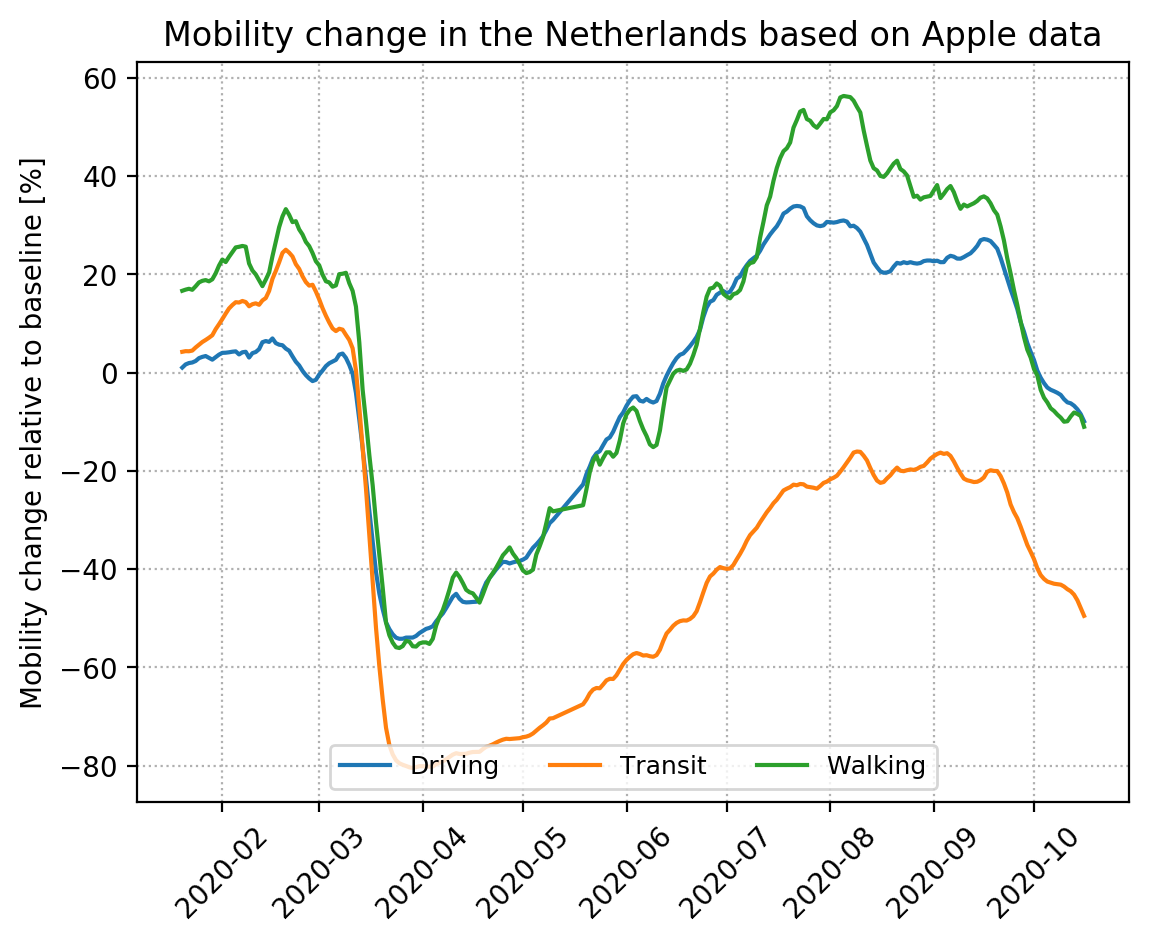
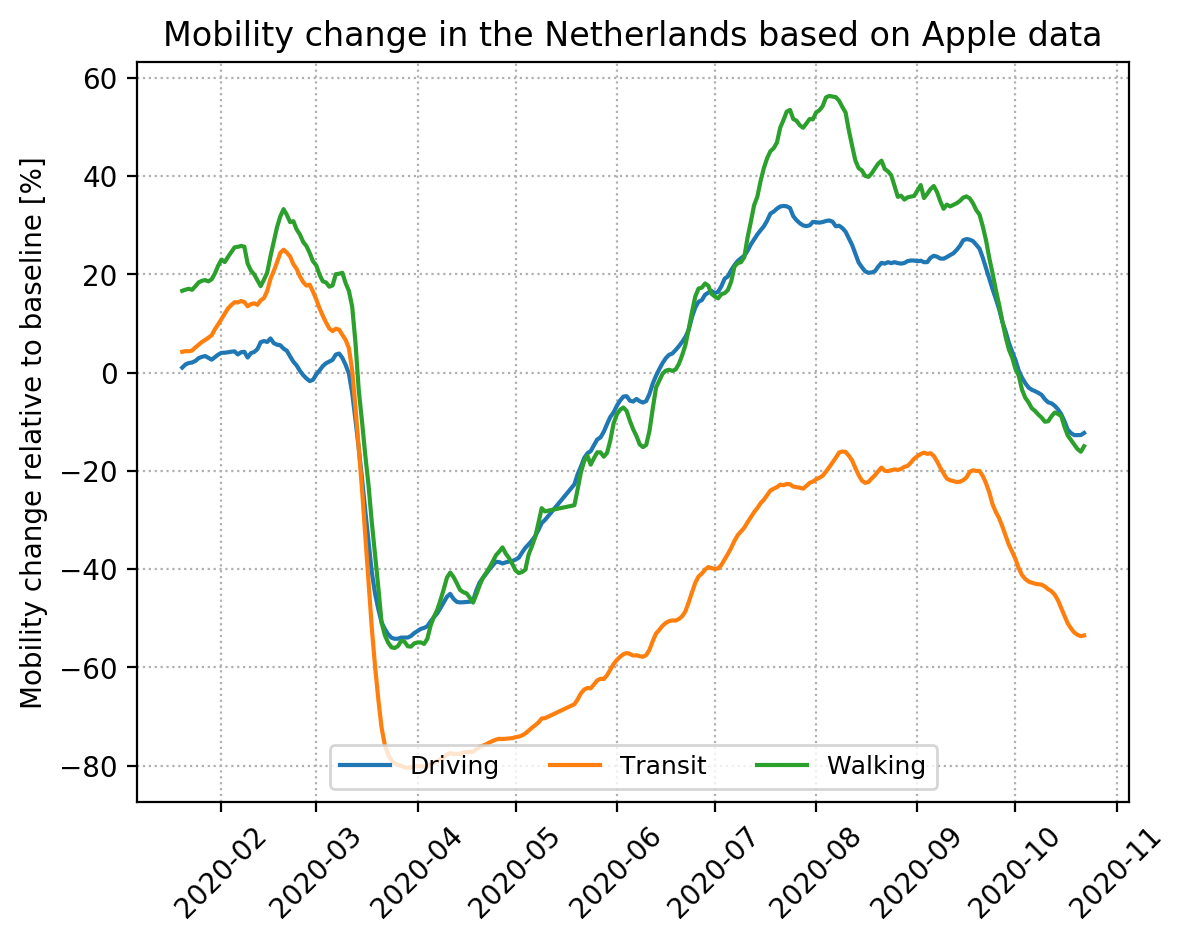
Added automatic downloading of mobility data

diff --git a/model_coronavirus_supression.py b/model_coronavirus_supression.py
@@ -9,7 +9,7 @@ import matplotlib.dates as mdates
 import urllib.request
 import shutil
 import os, sys, glob
-import json
+from zipfile import ZipFile
 
 
 from sklearn.linear_model import Ridge, LinearRegression, Lasso
@@ -151,8 +151,30 @@ def load_mobility_data(smooth = False, smoothsize = 7):
 	- Residential
 	"""
 
-	#first load google data, this is the easiest
-	google_mobility_fname = f'{dataloc}google_2020_NL_Region_Mobility_Report.csv'
+	### first load google data
+	#download zip
+	google_mobility_url = 'https://www.gstatic.com/covid19/mobility/Region_Mobility_Report_CSVs.zip'
+	google_mobility_fname_zip = f'{dataloc}google_2020_All_Region_Mobility_Report.zip'
+	google_mobility_fname = f'2020_NL_Region_Mobility_Report.csv'
+	downloaded = downloadSave(google_mobility_url, google_mobility_fname_zip, check_file_exists = True)
+
+	if downloaded:
+		#unzip
+		unziploc = f'{dataloc}unzip/'
+		with ZipFile(google_mobility_fname_zip, 'r') as zfile:
+			os.mkdir(unziploc)
+			zfile.extractall(unziploc)
+
+		#get the desired file
+		zipfilename = glob.glob(unziploc + google_mobility_fname)[0]
+		print(zipfilename)
+		#rename
+		google_mobility_fname = dataloc + 'google_' + google_mobility_fname
+		os.rename(zipfilename, google_mobility_fname)
+
+		#remove downloaded files
+		shutil.rmtree(unziploc)
+		os.remove(google_mobility_fname_zip)
 
 	google_col_rename = {
 		'retail_and_recreation_percent_change_from_baseline': 'retail_recreation',
@@ -1222,7 +1244,8 @@ def estimate_recent_prevalence():
 	#then sort again
 	df_prevalence_pred = df_prevalence_pred.sort_index()
 
-	#now plot together with the old data
+
+	###now plot together with the old data
 	fig, ax = plt.subplots()
 
 	#old data
@@ -1255,8 +1278,6 @@ def estimate_recent_prevalence():
 	plt.savefig(f'{plotloc}Prevalence_second_wave_with_predictions.png', dpi = 200, bbox_inches = 'tight')
 	plt.close()
 
-	#make predictions
-
 def main():
 	# government_response_results_simple()
 
@@ -1266,9 +1287,9 @@ def main():
 
 	# plot_prevalence_R()
 
-	# plot_mobility()
+	plot_mobility()
 
-	plot_daily_results()
+	# plot_daily_results()
 
 	# plot_sewage()
 

diff --git a/README.md b/README.md
@@ -1,8 +1,7 @@
 ## Modelling the outcome of Dutch government coronavirus response
 
 ### TODO:
-- Auto download Apple/Google data
-- Extrapolate number of tests performed from existing data points to counteract overestimated positivity rate
+- ...
 
 ### Data sources
 
@@ -21,6 +20,8 @@ Weekly update [link](https://www.rivm.nl/documenten/wekelijkse-update-epidemiolo
 A huge list of data sources: [link](https://www.databronnencovid19.nl/)
 
 Predictions: [link](https://covid19.healthdata.org/netherlands)
+
+NICE intensive care data: [link](https://www.databronnencovid19.nl/Bron?naam=Nationale-Intensive-Care-Evaluatie)
 
 #### Possible early predictors (for prevalence and R)
 
